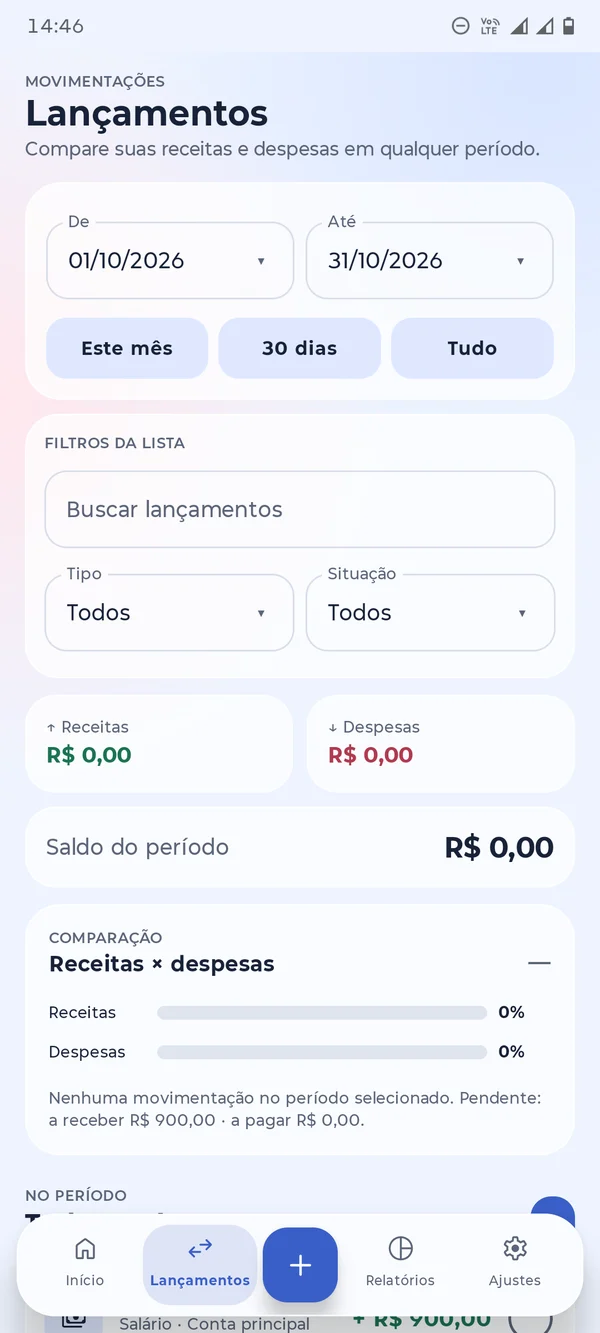
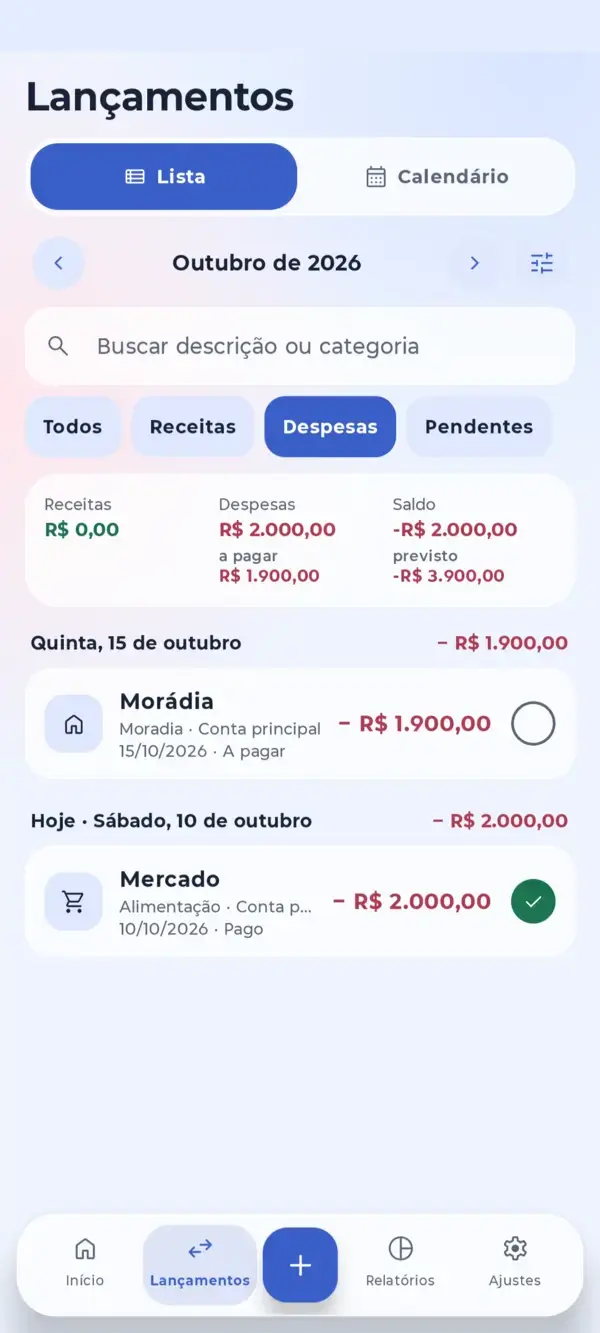
Telas do Android atualizadas: Lista, Calendário, Relatórios e Ajustes
Capturas novas do app (1.4.1): Lançamentos com lista por dia, Calendário
(novo), Relatórios com o "E se…?" e Ajustes (novo). Textos alternativos e
legendas atualizados.

Claude-Session: https://claude.ai/code/session_01XzZHZpxvricMqm5qYvHEZN

diff --git a/index.html b/index.html
@@ -103,9 +103,15 @@ a:focus-visible,summary:focus-visible{outline:3px solid #4269D8;outline-offset:3
 <div style="display: flex; gap: 24px; overflow-x: auto; scroll-snap-type: x mandatory; padding: 8px 4px 28px">
 <figure style="flex: 0 0 236px; margin: 0; display: flex; flex-direction: column; gap: 14px; scroll-snap-align: start">
 <div style="border-radius: 38px; padding: 8px; background: rgba(255,255,255,0.45); backdrop-filter: blur(24px) saturate(170%); -webkit-backdrop-filter: blur(24px) saturate(170%); border: 1px solid rgba(255,255,255,0.9); box-shadow: inset 0 1px 0 #FFFFFF, 0 24px 56px rgba(58,95,200,0.18)">
-<img src="assets/telas/android-lancamentos.webp" alt="Tela de lançamentos com filtros de período, busca e comparação entre receitas e despesas" loading="lazy" style="width: 100%; height: auto; display: block; border-radius: 31px">
+<img src="assets/telas/android-lancamentos.webp" alt="Lista de lançamentos de outubro com filtros de um toque, resumo do período com o que falta pagar e lançamentos agrupados por dia" loading="lazy" style="width: 100%; height: auto; display: block; border-radius: 31px">
 </div>
-<figcaption style="display: flex; flex-direction: column; gap: 4px; padding: 0 6px"><span style="font-size: 16px; font-weight: 800; color: #182238">Lançamentos</span><span style="font-size: 14px; line-height: 1.5; color: #5B6579">Filtre por período, tipo e situação.</span></figcaption>
+<figcaption style="display: flex; flex-direction: column; gap: 4px; padding: 0 6px"><span style="font-size: 16px; font-weight: 800; color: #182238">Lançamentos</span><span style="font-size: 14px; line-height: 1.5; color: #5B6579">Mês a mês, filtros de um toque e lista por dia.</span></figcaption>
+</figure>
+<figure style="flex: 0 0 236px; margin: 0; display: flex; flex-direction: column; gap: 14px; scroll-snap-align: start">
+<div style="border-radius: 38px; padding: 8px; background: rgba(255,255,255,0.45); backdrop-filter: blur(24px) saturate(170%); -webkit-backdrop-filter: blur(24px) saturate(170%); border: 1px solid rgba(255,255,255,0.9); box-shadow: inset 0 1px 0 #FFFFFF, 0 24px 56px rgba(58,95,200,0.18)">
+<img src="assets/telas/android-calendario.webp" alt="Calendário de outubro com o saldo de cada dia, totais do mês e o dia escolhido com os botões Receita e Despesa" loading="lazy" style="width: 100%; height: auto; display: block; border-radius: 31px">
+</div>
+<figcaption style="display: flex; flex-direction: column; gap: 4px; padding: 0 6px"><span style="font-size: 16px; font-weight: 800; color: #182238">Calendário</span><span style="font-size: 14px; line-height: 1.5; color: #5B6579">Saldo de cada dia e lançamento direto na data.</span></figcaption>
 </figure>
 <figure style="flex: 0 0 236px; margin: 0; display: flex; flex-direction: column; gap: 14px; scroll-snap-align: start">
 <div style="border-radius: 38px; padding: 8px; background: rgba(255,255,255,0.45); backdrop-filter: blur(24px) saturate(170%); -webkit-backdrop-filter: blur(24px) saturate(170%); border: 1px solid rgba(255,255,255,0.9); box-shadow: inset 0 1px 0 #FFFFFF, 0 24px 56px rgba(58,95,200,0.18)">
@@ -115,9 +121,9 @@ a:focus-visible,summary:focus-visible{outline:3px solid #4269D8;outline-offset:3
 </figure>
 <figure style="flex: 0 0 236px; margin: 0; display: flex; flex-direction: column; gap: 14px; scroll-snap-align: start">
 <div style="border-radius: 38px; padding: 8px; background: rgba(255,255,255,0.45); backdrop-filter: blur(24px) saturate(170%); -webkit-backdrop-filter: blur(24px) saturate(170%); border: 1px solid rgba(255,255,255,0.9); box-shadow: inset 0 1px 0 #FFFFFF, 0 24px 56px rgba(58,95,200,0.18)">
-<img src="assets/telas/android-relatorios.webp" alt="Tela de relatórios com gráfico dos últimos seis meses e comparação com o mês anterior" loading="lazy" style="width: 100%; height: auto; display: block; border-radius: 31px">
+<img src="assets/telas/android-relatorios.webp" alt="Relatórios do mês com receitas e despesas, o atalho do simulador E se, despesas por categoria e a evolução dos últimos seis meses" loading="lazy" style="width: 100%; height: auto; display: block; border-radius: 31px">
 </div>
-<figcaption style="display: flex; flex-direction: column; gap: 4px; padding: 0 6px"><span style="font-size: 16px; font-weight: 800; color: #182238">Relatórios</span><span style="font-size: 14px; line-height: 1.5; color: #5B6579">Evolução mensal e exportação em PDF.</span></figcaption>
+<figcaption style="display: flex; flex-direction: column; gap: 4px; padding: 0 6px"><span style="font-size: 16px; font-weight: 800; color: #182238">Relatórios</span><span style="font-size: 14px; line-height: 1.5; color: #5B6579">Comparação justa, simulador “E se…?” e PDF.</span></figcaption>
 </figure>
 <figure style="flex: 0 0 236px; margin: 0; display: flex; flex-direction: column; gap: 14px; scroll-snap-align: start">
 <div style="border-radius: 38px; padding: 8px; background: rgba(255,255,255,0.45); backdrop-filter: blur(24px) saturate(170%); -webkit-backdrop-filter: blur(24px) saturate(170%); border: 1px solid rgba(255,255,255,0.9); box-shadow: inset 0 1px 0 #FFFFFF, 0 24px 56px rgba(58,95,200,0.18)">
@@ -130,6 +136,12 @@ a:focus-visible,summary:focus-visible{outline:3px solid #4269D8;outline-offset:3
 <img src="assets/telas/android-privacidade.webp" alt="Ajustes de privacidade com PIN, desbloqueio por digital, ocultar valores e bloqueio de capturas de tela" loading="lazy" style="width: 100%; height: auto; display: block; border-radius: 31px">
 </div>
 <figcaption style="display: flex; flex-direction: column; gap: 4px; padding: 0 6px"><span style="font-size: 16px; font-weight: 800; color: #182238">Privacidade</span><span style="font-size: 14px; line-height: 1.5; color: #5B6579">PIN, digital e dados criptografados.</span></figcaption>
+</figure>
+<figure style="flex: 0 0 236px; margin: 0; display: flex; flex-direction: column; gap: 14px; scroll-snap-align: start">
+<div style="border-radius: 38px; padding: 8px; background: rgba(255,255,255,0.45); backdrop-filter: blur(24px) saturate(170%); -webkit-backdrop-filter: blur(24px) saturate(170%); border: 1px solid rgba(255,255,255,0.9); box-shadow: inset 0 1px 0 #FFFFFF, 0 24px 56px rgba(58,95,200,0.18)">
+<img src="assets/telas/android-ajustes.webp" alt="Tela de ajustes com aparência, privacidade e segurança, notificações e widget, assistente, contas e cartões, recorrências, limites e categorias" loading="lazy" style="width: 100%; height: auto; display: block; border-radius: 31px">
+</div>
+<figcaption style="display: flex; flex-direction: column; gap: 4px; padding: 0 6px"><span style="font-size: 16px; font-weight: 800; color: #182238">Ajustes</span><span style="font-size: 14px; line-height: 1.5; color: #5B6579">Tudo salvo e criptografado no aparelho.</span></figcaption>
 </figure>
 </div>
 
